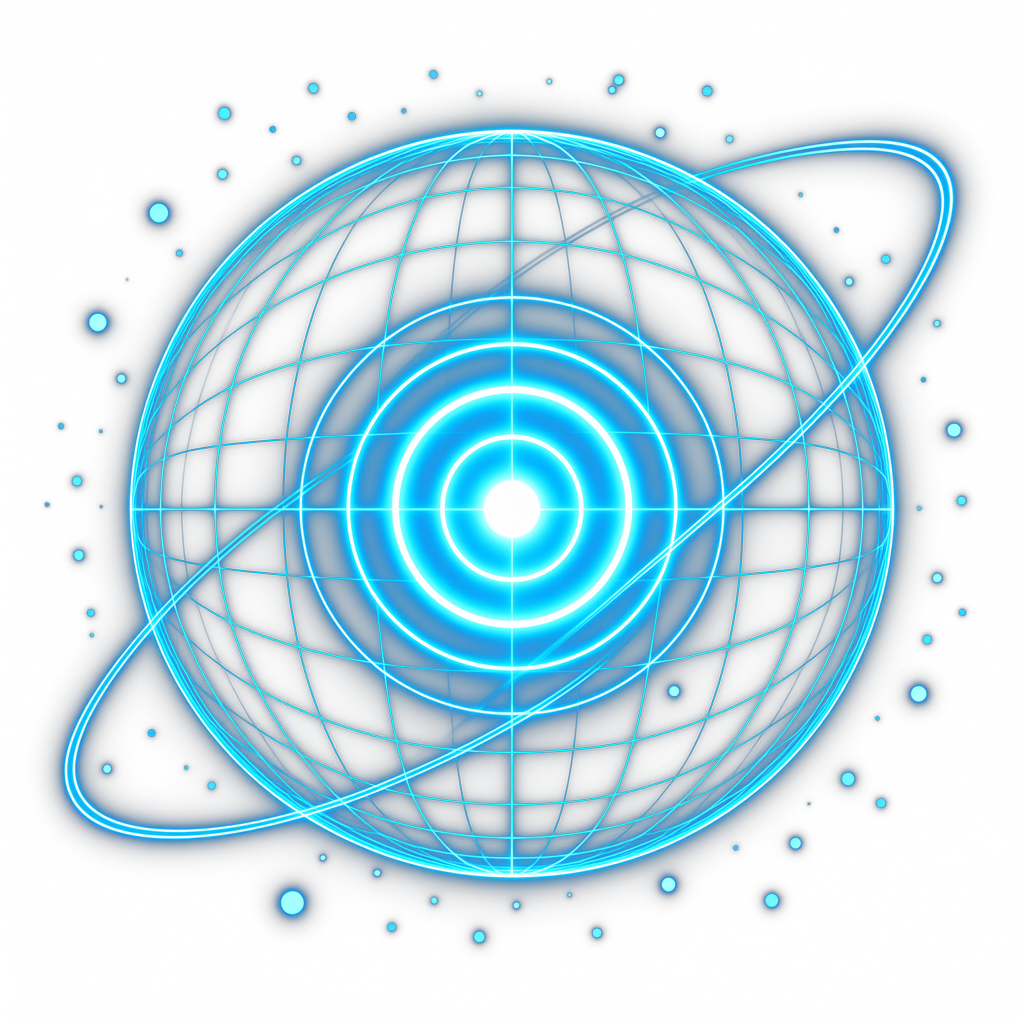
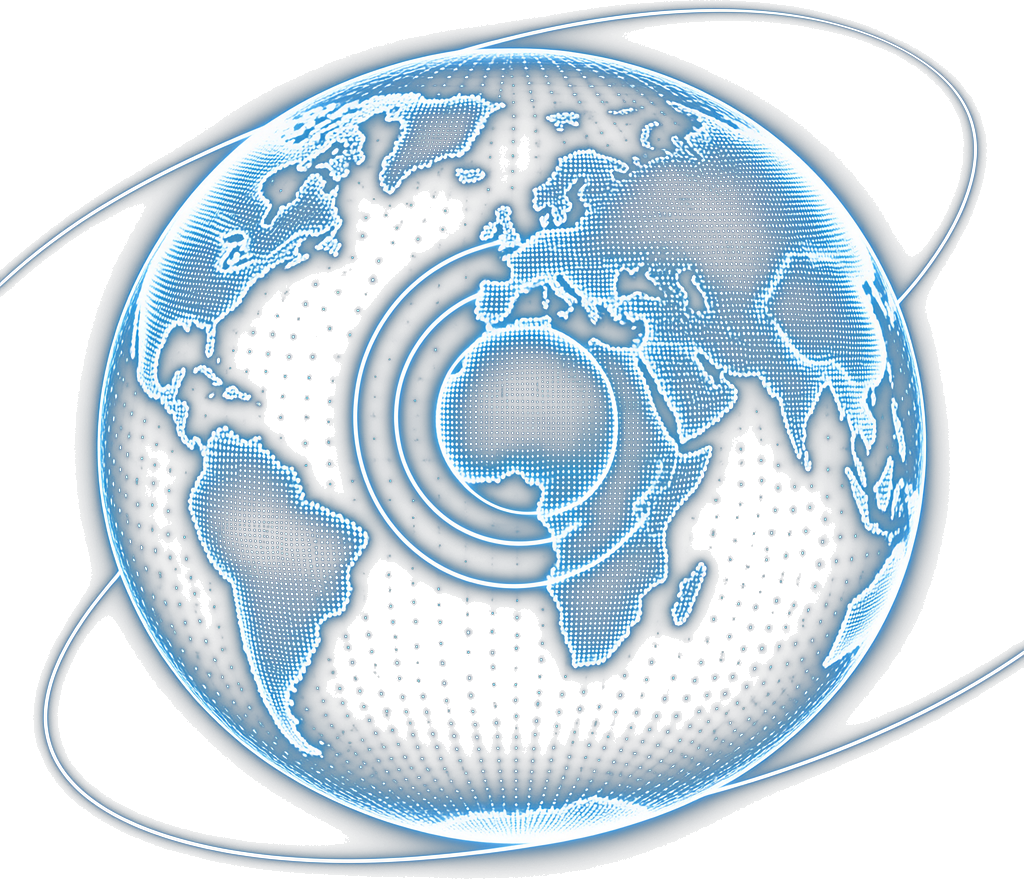
[UI:floor] 底壳换原图直抹件——台/斗/墙屏/地=原像素100%,只抹机/椅/球再叠动态件;球换点阵地球款;座/工位/机柜按原图坐标重排
Generated with Devin

diff --git a/web/src/react/pages/floorStage.tsx b/web/src/react/pages/floorStage.tsx
@@ -11,8 +11,6 @@ import botBackUrl from "../assets/bot-seat-back.png";
 import botStandUrl from "../assets/wall-station.png";
 import rackUrl from "../assets/server-rack.png";
 import globeUrl from "../assets/holo-globe.png";
-import bowlUrl from "../assets/holo-bowl.png";
-import tableUrl from "../assets/dais-ring.png";
 import chairUrl from "../assets/scoop-chair.png";
 import hallUrl from "../assets/room-shell.jpg";
 import { plainText } from "../components/plain";
@@ -38,17 +36,17 @@ const fmtM = (v: number) => "$" + v.toLocaleString("zh-CN", { maximumFractionDig
 // SEAT_POS——9座全站环台缘外侧:台心(50,66) rx=35 ry=19.5 椭圆参数
 // θ=170°..10° 左缘→前中→右缘;尺度按θ景深(前大侧小)
 const SEAT_POS = [
-  [15.5, 69.4, 0.7], [19.7, 75.8, 0.8], [27.5, 80.9, 0.9], [38, 84.3, 1.0],
-  [50, 85.5, 1.05], [62, 84.3, 1.0], [72.5, 80.9, 0.9], [80.3, 75.8, 0.8], [84.5, 69.4, 0.7],
+  [11.5, 62, 0.7], [16.2, 67.5, 0.8], [24.9, 72, 0.9], [36.6, 75.4, 1.0],
+  [50, 76, 1.05], [63.4, 75.4, 1.0], [75.1, 72, 0.9], [83.8, 67.5, 0.8], [88.5, 62, 0.7],
 ];
 // 朝向:围桌朝台心——左半朝右(r)、前中背影(b)、右半朝左(l,翻转)
 const SEAT_FACE = ["r", "r", "r", "b", "b", "b", "l", "l", "l"] as const;
-const MACH_POS = [[10, 41], [20, 40], [33, 39], [64, 39], [78, 40], [90, 41], [46, 39.5], [55, 39.5]];
+const MACH_POS = [[6, 38], [14, 37], [22, 36], [30, 36], [68, 36], [76, 36], [84, 37], [92, 38]];
 // 物理主机机柜位——墙沿工位间缝,真硬件件(非人形:器/服/机三形分家)
-const HOST_POS = [[5, 46], [85, 46.5], [95, 46], [28, 47]];
-// 台面工单板位——环台面上散件,一待办一板(原图台面散件=活工单)
-const PAD_POS = [[32, 64], [41, 66.5], [50, 67.5], [59, 66.5], [68, 64], [27, 59.5], [73, 59.5], [50, 71]];
-const SCREEN_POS = { A: [11, 16], B: [32, 16], C: [67, 16], D: [87, 16] } as const;
+const HOST_POS = [[4, 44], [96, 44], [40, 42], [60, 42]];
+// 台面工单板位——环台面环带散件,一待办一板(原图台面散件=活工单)
+const PAD_POS = [[50, 70], [65.4, 67.4], [34.6, 67.4], [70.8, 64.5], [29.2, 64.5], [73.6, 60.9], [26.4, 60.9], [50, 74]];
+const SCREEN_POS = { A: [9, 15], B: [24, 15], C: [70, 15], D: [86, 15] } as const;
 
 export function FloorStage(p: StageProps) {
   const [pulse, setPulse] = useState<Set<number>>(new Set());
@@ -95,15 +93,7 @@ export function FloorStage(p: StageProps) {
         {p.counts.done}完工·{p.counts.build}在建·{p.counts.pin}立项·{p.queue.length}待办
         <span className="fs-hud-sub">UTC {p.utc.slice(0, 5)} · 北京 {p.bj.slice(0, 5)}</span>
       </div>
-      {/* 部署基线片——量表帧「部署=ver(age)」钉在脑名旁 */}
-      {(() => {
-        const f = p.facts.find((x) => x.event === "量表" && x.note.includes("部署="));
-        const m = f?.note.match(/部署=([0-9a-f]{9,12})\(([^)]*)\)/);
-        return m ? (
-          <span className="fs-dep" style={{ left: "50%", top: "48.5%" }}
-            title={`部署基线 ${m[1]}·${m[2]}前`}>▣{m[1].slice(0, 9)}</span>
-        ) : null;
-      })()}
+      {/* 部署基线——量表帧「部署=ver(age)」,并入脑文案行免撞碗沿 */}
       {/* 顶右警报灯——积压/断流红闪 */}
       <button className={`fs-alarm${alarm ? " on" : ""}`}
         onClick={() => p.onNav("/decision")}
@@ -123,15 +113,15 @@ export function FloorStage(p: StageProps) {
         onClick={() => p.onPick({ k: "desk", x: 0, y: 0, title: "会话席", body: [], to: "/device" })}>
         <span className="fs-brain-line main">{p.awake ? p.claim ?? "在班·收棒中" : "脑·下班"}</span>
         {p.lastAct && <span className="fs-brain-line sub">{p.lastAct}</span>}
+        {(() => {
+          const f = p.facts.find((x) => x.event === "量表" && x.note.includes("部署="));
+          const m = f?.note.match(/部署=([0-9a-f]{9,12})\(([^)]*)\)/);
+          return m ? <span className="fs-brain-line dep">▣{m[1].slice(0, 9)}·{m[2]}前</span> : null;
+        })()}
       </button>
 
-      {/* 环台——原图圆环巨台:藏蓝环面+同心光环+中心孔,NAV 嵌孔 */}
-      <img src={tableUrl} className="fs-table" style={{ left: "50%", top: "66%" }} alt="" draggable={false} />
-      {/* 光斗——原图件:线框半球碗从台孔升起托球底(台↔球连接体) */}
-      <img src={bowlUrl} className="fs-bowl" style={{ left: "50%", top: "51%" }} alt="" draggable={false} />
-
-      {/* 台心孔=喙·NAV 钱芯(钱从台心入) */}
-      <button className="fs-nav" style={{ left: "50%", top: "60%" }}
+      {/* 环台+光斗已烘进底图(原像素100%)——NAV 嵌台心孔 */}
+      <button className="fs-nav" style={{ left: "50%", top: "57%" }}
         onClick={() => p.onPick({ k: "nav", x: 0, y: 0, title: "NAV · 收银", body: [], to: "/" })}>
         <b>{p.nav ? fmtM(p.nav.total) : "—"}</b>
         <span>今日 {p.nav ? (p.nav.today >= 0 ? "+" : "−") + fmtM(Math.abs(p.nav.today)) : "—"}</span>
@@ -141,7 +131,7 @@ export function FloorStage(p: StageProps) {
       {p.organs.map((o, k) => (
         <button key={o.i}
           className={`fs-seatwrap st-${o.st} face-${SEAT_FACE[k]}${o.flash || pulse.has(o.i) ? " pulse" : ""}`}
-          style={{ left: `${SEAT_POS[k][0]}%`, top: `${SEAT_POS[k][1]}%`, width: `${8.6 * (SEAT_POS[k][2] ?? 1)}%` }}
+          style={{ left: `${SEAT_POS[k][0]}%`, top: `${SEAT_POS[k][1]}%`, width: `${10.4 * (SEAT_POS[k][2] ?? 1)}%` }}
           onClick={() => p.onPick({ k: "gh" + o.i, x: 0, y: 0, title: `工位 · ${o.name}`, body: [], to: "/decision" })}>
           {/* pin/ghost=空椅(座摆人未坐);build/done=坐机;朝向=围桌朝台心 */}
           <img src={o.st === "pin" || o.st === "ghost" ? chairUrl : SEAT_FACE[k] === "b" ? botBackUrl : botSeatUrl} alt={o.name}

diff --git a/web/src/react/styles/31-floor.css b/web/src/react/styles/31-floor.css
@@ -255,10 +255,8 @@ button.v2-row.ft-row {
   border-radius: 8px; padding: 5px 10px; backdrop-filter: blur(4px);
 }
 .fs-hud-sub { color: #7f95b2; font-weight: 400; margin-left: 8px; font-size: .85em; }
-/* 部署基线片——量表帧「部署=ver」钉脑下:部署在飞=版号滞后 */
-.fs-dep { position: absolute; transform: translateX(-50%); z-index: 3; pointer-events: none;
-  font-size: clamp(8px, .7vw, 10px); color: #a8dcff; padding: 1px 8px; border-radius: 5px;
-  background: rgba(40, 110, 180, .3); border: 1px solid rgba(120, 200, 255, .4); }
+/* 部署基线行——量表帧「部署=ver·age」挂脑文案第三行 */
+.fs-brain-line.dep { color: #7fd8ff; font-size: .82em; }
 /* 器官单牌——单落谁身谁亮:票号+段位,段位分色 */
 .fs-tkt { position: absolute; top: -2%; right: -14%; z-index: 2; pointer-events: none; white-space: nowrap;
   font-size: clamp(7px, .62vw, 9px); font-weight: 700; color: #ffe9b8; padding: 1px 6px; border-radius: 5px;
@@ -277,13 +275,13 @@ button.v2-row.ft-row {
 @keyframes fs-alarmblink { 50% { filter: brightness(1.5); } }
 
 /* 中央全息球=脑——透明热区罩球,在班=罩层泛光,脑闪=新行到 */
-.fs-brain { position: absolute; transform: translate(-50%, -50%); width: 21%; aspect-ratio: 1; border-radius: 50%; z-index: 2; }
+.fs-brain { position: absolute; transform: translate(-50%, -50%); width: 30%; aspect-ratio: 1; aspect-ratio: 1; border-radius: 50%; z-index: 2; }
 .fs-brain-glow { position: absolute; inset: -4%; border-radius: 50%; border: 2px solid rgba(110, 230, 255, .35); box-shadow: 0 0 18px rgba(110, 230, 255, .2), inset 0 0 24px rgba(110, 230, 255, .08); opacity: .45; }
 .fs-brain.awake .fs-brain-glow { opacity: 1; border-color: rgba(110, 230, 255, .8); box-shadow: 0 0 24px rgba(110, 230, 255, .55), inset 0 0 30px rgba(110, 230, 255, .18); animation: fs-breathe 3.6s ease-in-out infinite; }
 .fs-brain.flash .fs-brain-glow, .fs-brain.flash { filter: brightness(1.6); }
 @keyframes fs-breathe { 50% { opacity: .55; } }
 /* 光斗——原图件:线框半球碗从台孔升起托球底(亮度=alpha 辉光) */
-.fs-bowl { position: absolute; transform: translate(-50%, -50%) scaleY(.72); width: 26%; z-index: 1;
+.fs-bowl { position: absolute; transform: translate(-50%, -50%) scaleY(.72); width: 32%; z-index: 1;
   pointer-events: none; opacity: .9; animation: fs-beamflow 4s ease-in-out infinite; }
 @keyframes fs-beamflow { 0%, 100% { opacity: .72; } 50% { opacity: 1; } }
 
